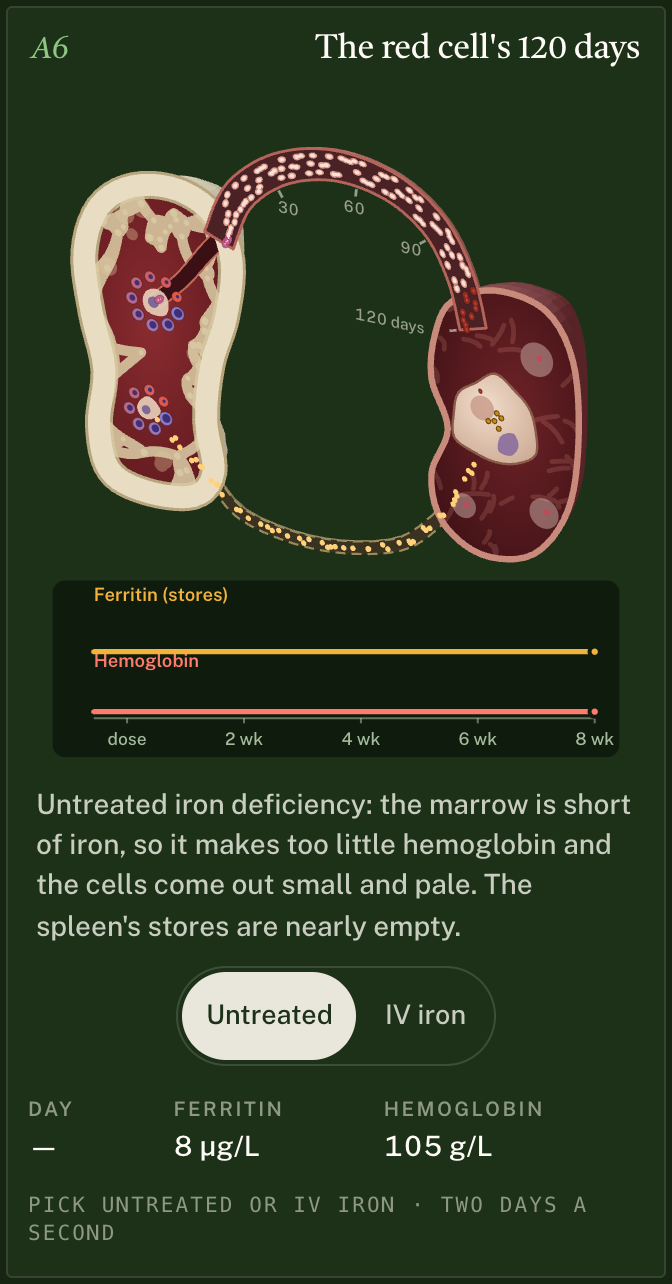
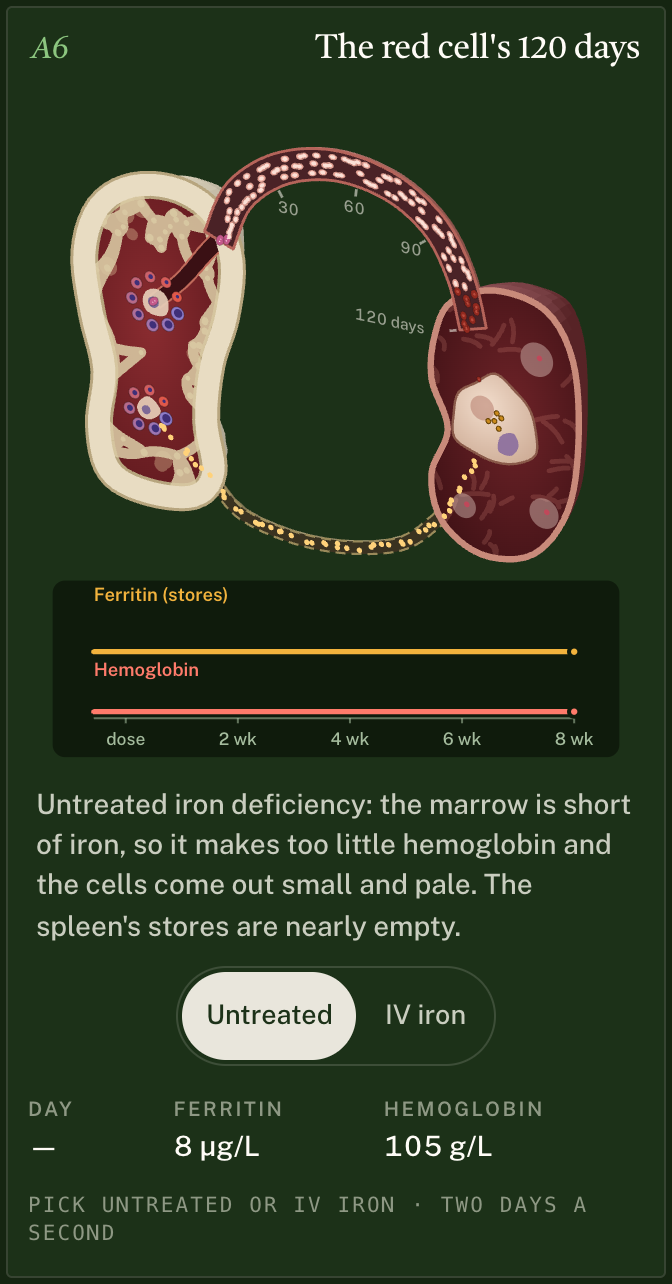
A6: monitor labels clear of the ferritin dot, line and day cursor
- "Hemoglobin" sat 1 px under the ferritin baseline, and the ferritin dot
  rode over its first letter before the dose (TV sweep shot 023). The label
  drops 7 px, clear of both.
- Both labels are painted after the cursor with a knock-out halo, so the
  dotted day line breaks around them instead of striking through.
- The plot ends 20 px earlier, so "8 wk" no longer crowds the panel's
  rounded corner. Data and model unchanged.

diff --git a/figures/a6-red-cell-cycle/figure.css b/figures/a6-red-cell-cycle/figure.css
@@ -62,7 +62,9 @@
 .a6-tick { fill: none; stroke: var(--a6-tick); stroke-width: 1.4; }
 .a6-tick-txt { fill: var(--a6-tick); font: 500 17px/1 var(--opt-ui); font-variant-numeric: tabular-nums; }
 .a6-mon-bg { fill: var(--a6-mon-bg); }
-.a6-mlabel { font: 600 18px/1 var(--opt-ui); }
+/* "Hemoglobin" sits clear of the ferritin baseline and of the ferritin dot riding along it before the dose, and both
+   labels are painted over the cursor with a knock-out halo, so the moving day line breaks around them */
+.a6-mlabel { font: 600 18px/1 var(--opt-ui); paint-order: stroke; stroke: var(--a6-mon-bg); stroke-width: 6px; stroke-linejoin: round; }
 .a6-mlabel-fer { fill: var(--a6-fer); } .a6-mlabel-hb { fill: var(--a6-hb); }
 .a6-axis { fill: none; stroke: var(--a6-mon-ink); stroke-width: 1; opacity: 0.45; }
 .a6-mtick { fill: var(--a6-mon-ink); font: 500 17px/1 var(--opt-ui); opacity: 0.8; }
